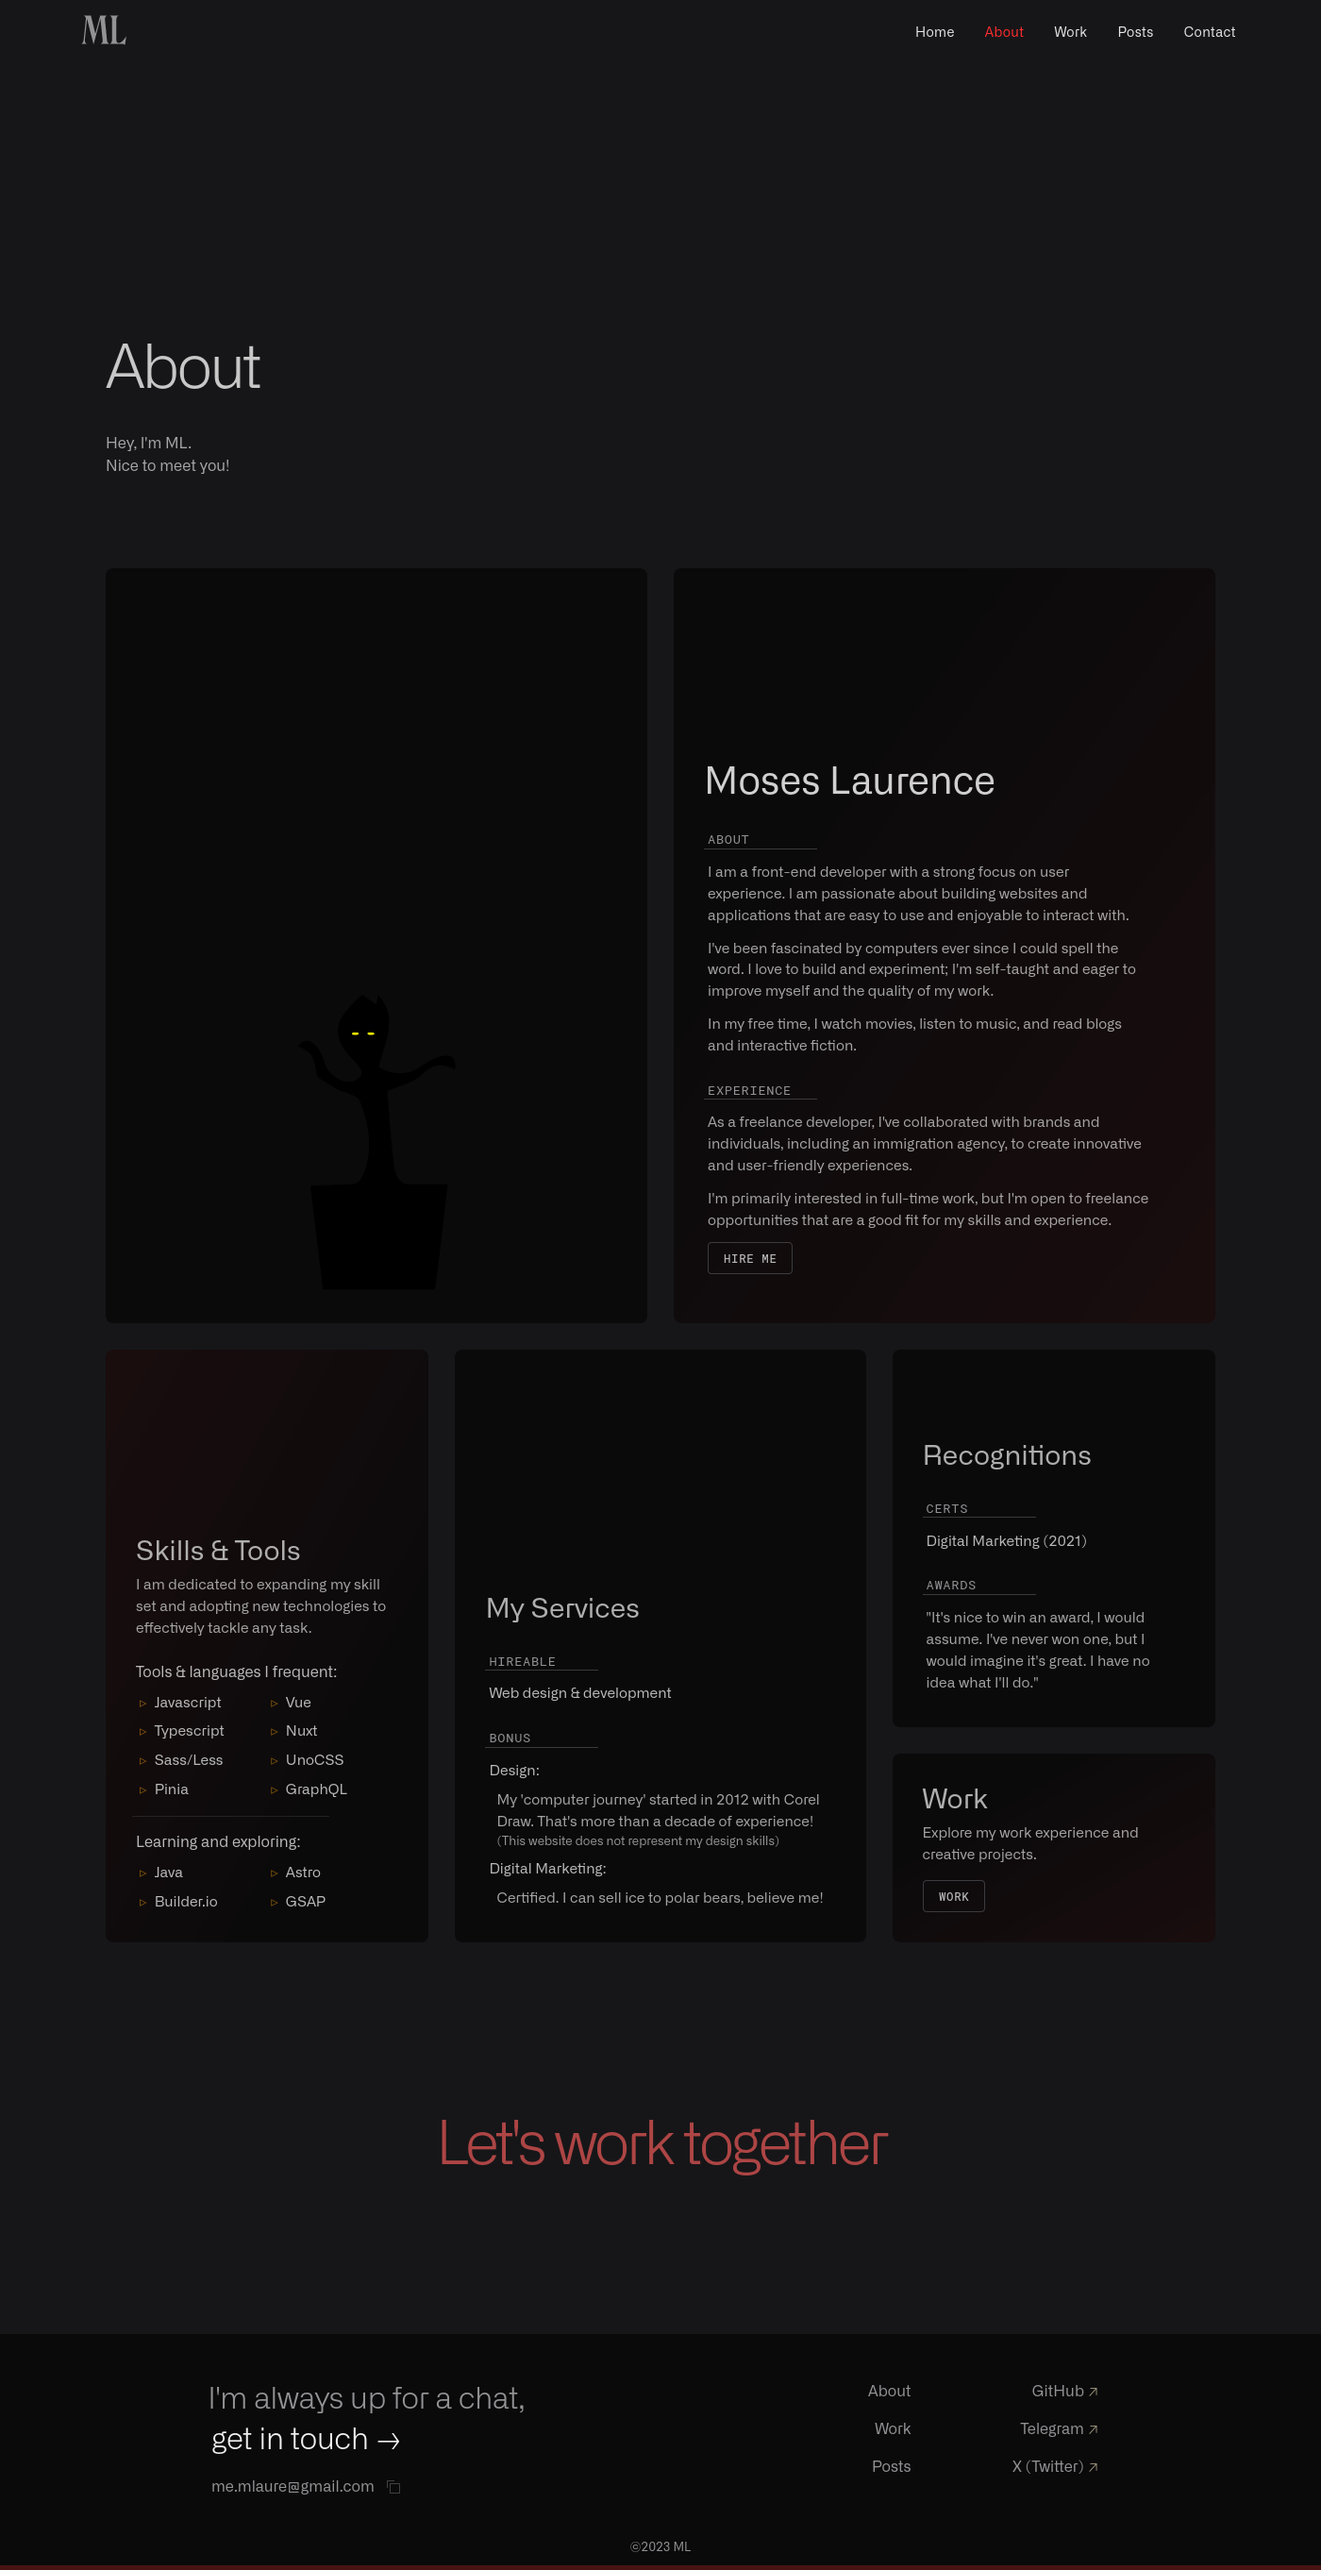
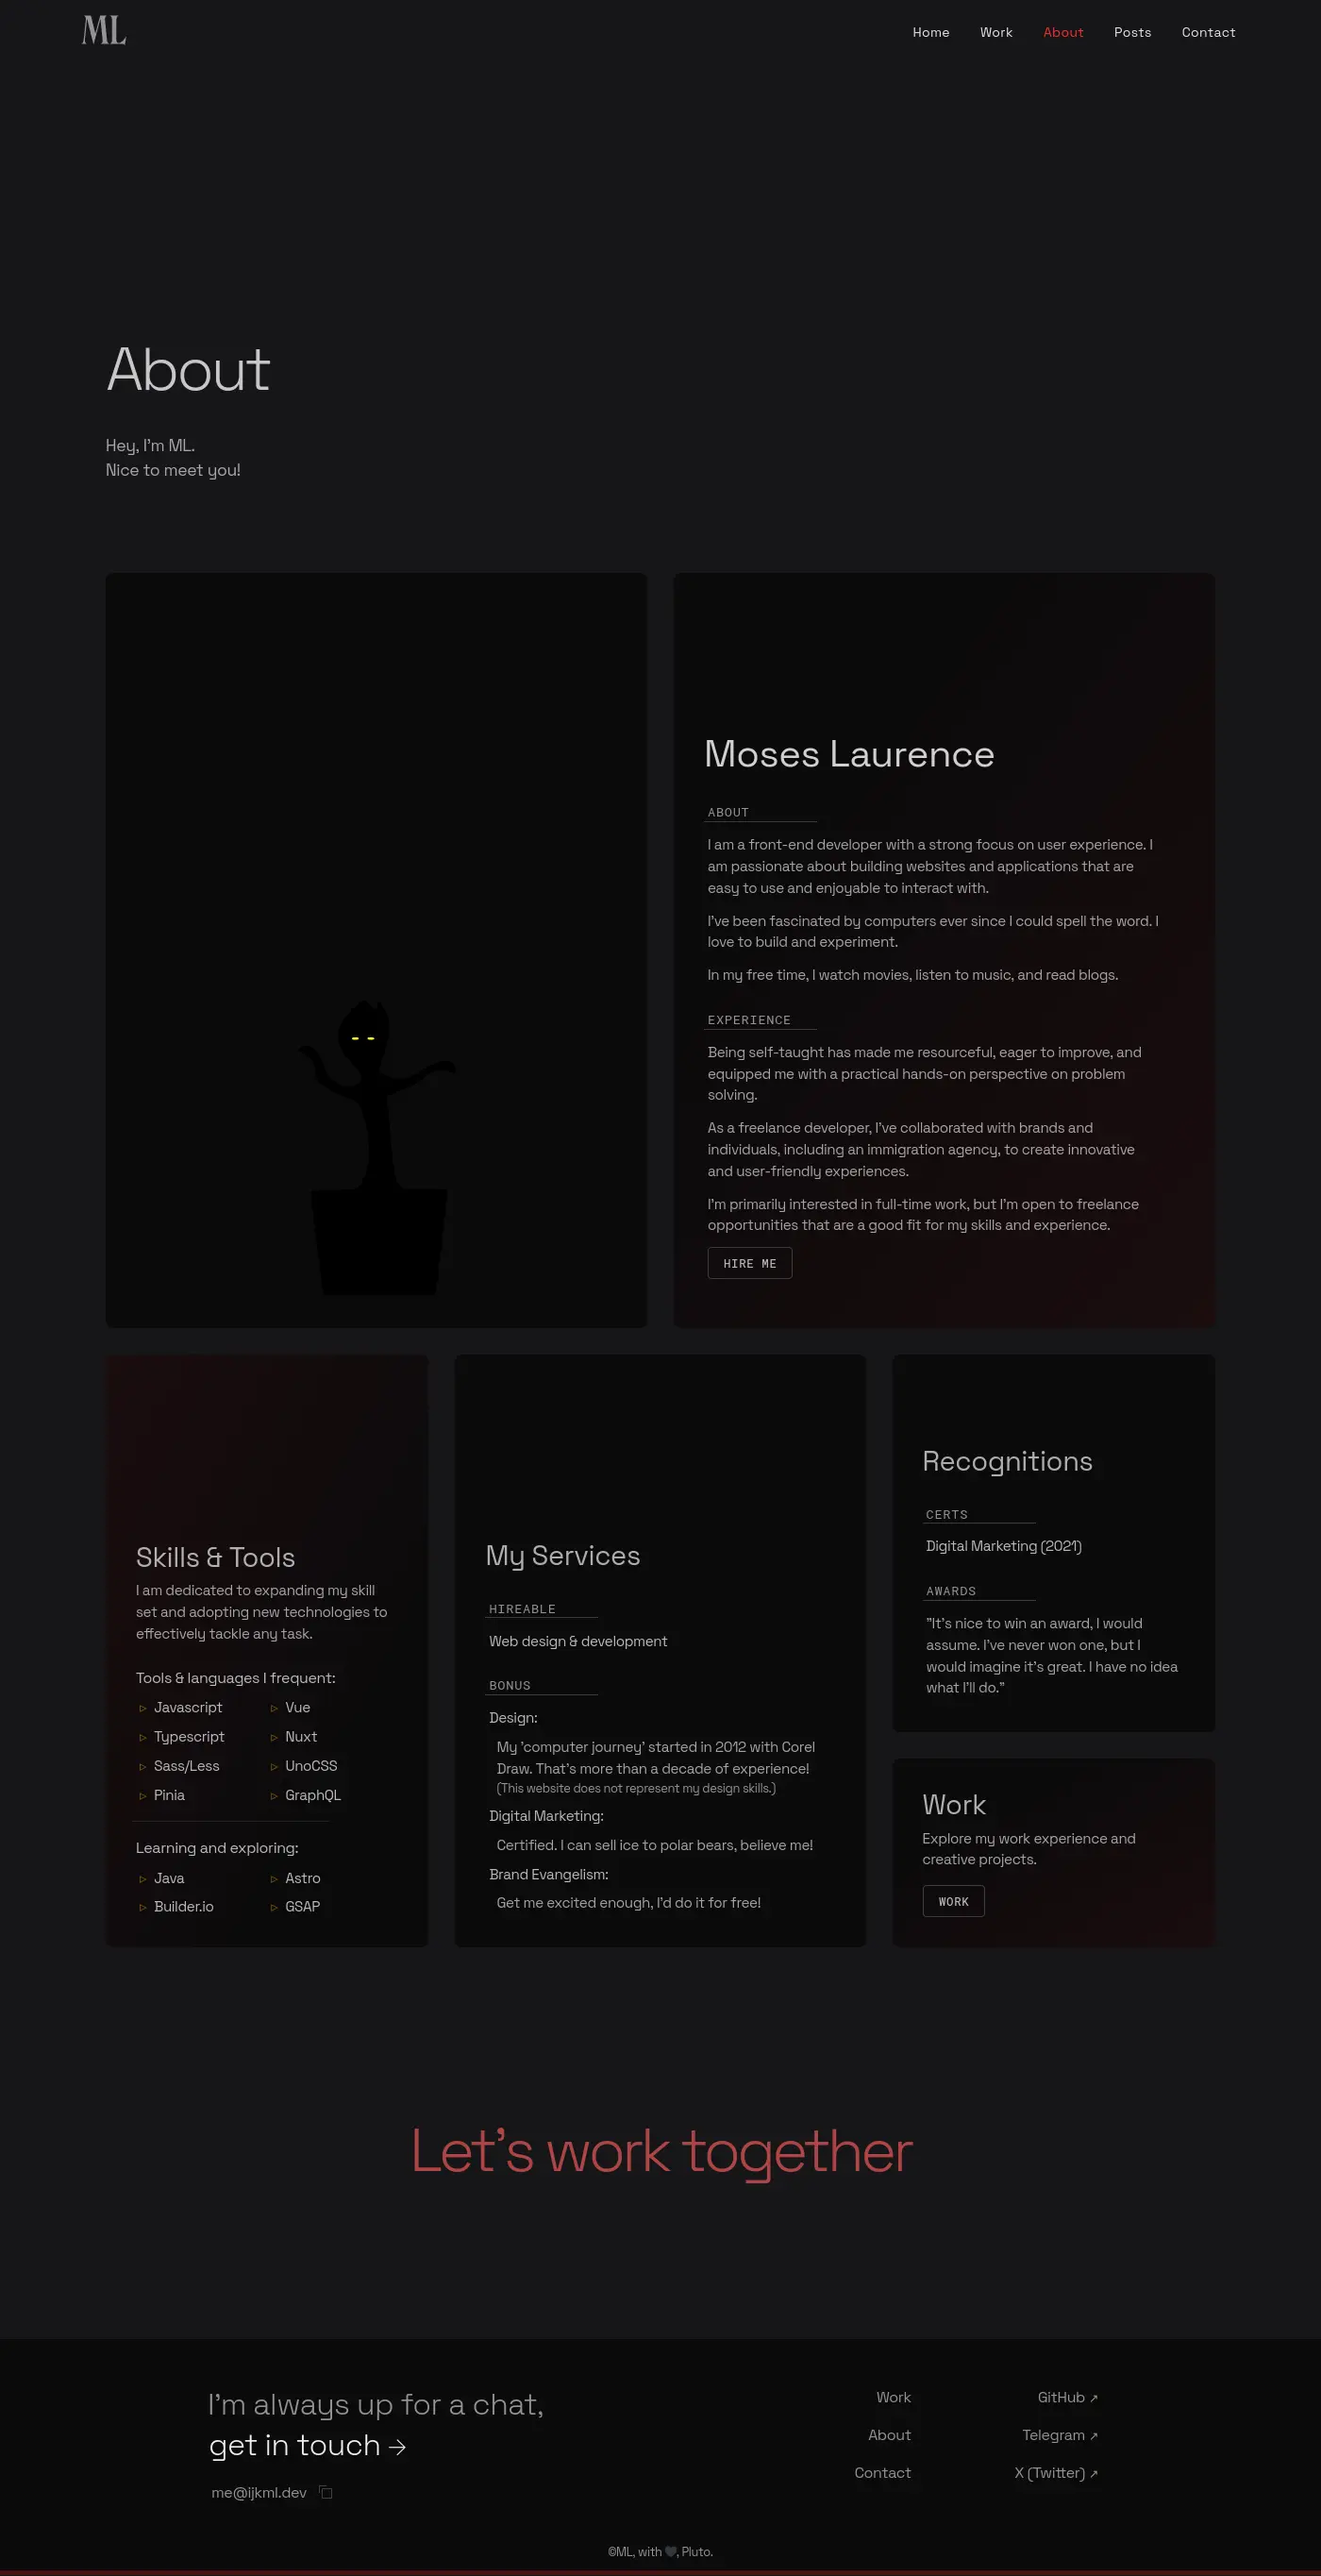
update about, update screenshots

diff --git a/components/About/CardA.vue b/components/About/CardA.vue
@@ -13,17 +13,21 @@
 
       <p>
         I've been fascinated by computers ever since I could spell the word.
-        I love to build and experiment; I'm self-taught and eager to improve myself and
-        the quality of my work.
+        I love to build and experiment.
       </p>
 
       <p>
-        In my free time, I watch movies, listen to music, and read blogs and
-        interactive fiction.
+        In my free time, I watch movies, listen to music, and read blogs.
       </p>
     </SubSect>
 
     <SubSect title="Experience">
+      <p>
+        Being self-taught has made me resourceful, eager to improve,
+        and equipped me with a practical hands-on perspective
+        on problem solving.
+      </p>
+
       <p>
         As a freelance developer, I've collaborated with brands and individuals,
         including an immigration agency, to create innovative and user-friendly
